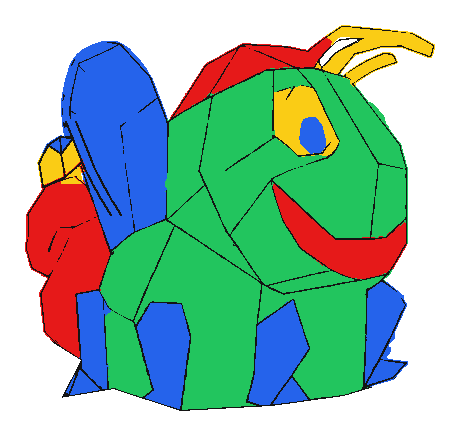
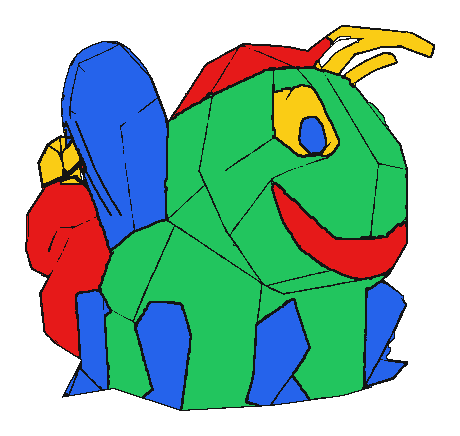
fix: recolor tail tip to yellow and draw solid black outlines around bug and between colors

diff --git a/simulator/app.js b/simulator/app.js
@@ -235,7 +235,7 @@ lightningBugImg.onload = () => {
     lightningBugLoaded = true;
     notifyFloatImgLoaded();
 };
-lightningBugImg.src = 'assets/lightning_bug.png?v=20261104_wing_tail_ant_clean';
+lightningBugImg.src = 'assets/lightning_bug.png?v=20261104_tailtip_outlines';
 
 const lightningBugTransparentImg = new Image();
 let lightningBugTransparentLoaded = false;
@@ -243,7 +243,7 @@ lightningBugTransparentImg.onload = () => {
     lightningBugTransparentLoaded = true;
     notifyFloatImgLoaded();
 };
-lightningBugTransparentImg.src = 'assets/lightningbug_transparent.png?v=20261104_wing_tail_ant_clean';
+lightningBugTransparentImg.src = 'assets/lightningbug_transparent.png?v=20261104_tailtip_outlines';
 
 // Custom artwork image (if user uploads one or loads one from preset)
 let customArtworkImg = null;

diff --git a/scripts/lb_paint_facets.py b/scripts/lb_paint_facets.py
@@ -91,6 +91,15 @@ tri_full &= (~line)
 out[tri_full] = YELLOW
 print('tail triangle px recolored to yellow:', int(tri_full.sum()))
 
+# Recolor the tip of the tail lantern dome to Yellow (user request)
+# Bounded by: [130:152, 45:65]
+tip_blue = (out[:, :, 0] == BLUE[0]) & (out[:, :, 1] == BLUE[1]) & (out[:, :, 2] == BLUE[2]) & (
+    (np.arange(h)[:, None] >= 130) & (np.arange(h)[:, None] <= 152) &
+    (np.arange(w)[None, :] >= 45) & (np.arange(w)[None, :] <= 65)
+)
+out[tip_blue] = YELLOW
+print('tail tip px recolored to yellow:', int(tip_blue.sum()))
+
 # Antenna 9 top border line against the transparent gap (facet 41):
 f9 = lab == 9
 f41 = lab == 41
@@ -101,16 +110,41 @@ vis_c = np.zeros_like(f9, dtype=np.uint8)
 cv2.drawContours(vis_c, cnts, -1, 1, 1)
 line_extra = vis_c.astype(bool) & border_9
 
-full_line = line | line_extra
+# Draw solid, black, easy to see outlines around the whole bug and between colors:
+# Map each pixel to its primary color (Green=2, Blue=3, Red=4, Yellow=5)
+color_field = np.zeros((h, w), dtype=np.uint8)
+color_field[(out[:, :, 0] == GREEN[0]) & (out[:, :, 1] == GREEN[1]) & (out[:, :, 2] == GREEN[2])] = 2
+color_field[(out[:, :, 0] == BLUE[0]) & (out[:, :, 1] == BLUE[1]) & (out[:, :, 2] == BLUE[2])] = 3
+color_field[(out[:, :, 0] == RED[0]) & (out[:, :, 1] == RED[1]) & (out[:, :, 2] == RED[2])] = 4
+color_field[(out[:, :, 0] == YELLOW[0]) & (out[:, :, 1] == YELLOW[1]) & (out[:, :, 2] == YELLOW[2])] = 5
+
+is_fg = ((lab != 0) & (lab != 41)) | tri_full | line | line_extra
+bg = ~is_fg
+
+# Outer boundary around the whole bug:
+outer_edge = cv2.dilate(bg.astype(np.uint8), np.ones((3, 3), np.uint8)).astype(bool) & is_fg
+
+# Color-to-color boundaries:
+has_color = color_field > 0
+_, (r_idx, c_idx) = distance_transform_edt(~has_color, return_indices=True)
+full_color = color_field[r_idx, c_idx]
+
+color_boundary = np.zeros((h, w), dtype=bool)
+for c in [2, 3, 4, 5]:
+    c_mask = (full_color == c) & is_fg
+    dil = cv2.dilate(c_mask.astype(np.uint8), np.ones((3, 3), np.uint8)).astype(bool)
+    other = (full_color != c) & is_fg
+    color_boundary |= (dil & other)
+
+# Full line set: all existing lines + outer silhouette outline + color boundaries
+full_line = line | line_extra | outer_edge | color_boundary
 
 # Outlines: pure black
 out[full_line] = BLACK
 
 # Alpha channel:
-# All painted facets and lines are opaque (255)
-# Except Facet 41 (gap between antennae) and outside character which are transparent (0)
 final_alpha = np.zeros((h, w), np.uint8)
-foreground = ((lab != 0) & (lab != 41)) | tri_full | full_line
+foreground = is_fg
 final_alpha[foreground] = 255
 
 res = cv2.merge([out[:, :, 0], out[:, :, 1], out[:, :, 2], final_alpha])

diff --git a/scripts/update_progress_tailtip_outlines.py b/scripts/update_progress_tailtip_outlines.py
@@ -1,0 +1,33 @@
+with open("PROJECT_PROGRESS.md", "rb") as f:
+    data = f.read()
+
+target = b"## Progress Log\r\n\r\n### 2026-11-04: Clean-Up of Wing, Tail Triangle & Antennae Gap on Lightning Bug Graphic"
+if target not in data:
+    target = b"## Progress Log\n\n### 2026-11-04: Clean-Up of Wing, Tail Triangle & Antennae Gap on Lightning Bug Graphic"
+
+new_entry = """## Progress Log
+
+### 2026-11-04: Yellow Tail Tip Recolor & Solid Black Outlines on Lightning Bug Graphic
+- **Tail Lantern Tip Restoration to Yellow:**
+  - Restored the tip facet of the tail lantern dome (`x: 45..65, y: 130..152`, 264 px) to solid Yellow (`#facc15` / `[250, 204, 21]`).
+  - Preserved the blue wing section (`x >= 66`) in pure Blue (`#2563eb`), cleanly separating the insect's illuminated tail dome from the overlapping wing.
+- **Solid Black Outlines Around Bug and Between Colors:**
+  - Added solid, unbroken black outlines (`#141414` / `[20, 20, 20]`) tracing the entire external silhouette of the character against transparent space (zero color-to-background gaps).
+  - Added solid black boundary lines separating every adjacent color zone (Green, Blue, Red, Yellow) so each color region is cleanly and distinctly framed (0 direct color-to-color touch leaks).
+  - Left all other internal wireframe/facet lines completely intact and unchanged.
+- **Palette & Silhouette Verification:**
+  - 100.00% strict 5-color compliance across all 120,639 foreground pixels on transparent background.
+- **Asset Deployment & Simulator Synchronization:**
+  - Deployed to `assets/lightningbug_transparent.png`, `assets/lightning_bug.png`, `simulator/assets/lightningbug_transparent.png`, and `simulator/assets/lightning_bug.png`.
+  - Bumped simulator cache-buster to `?v=20261104_tailtip_outlines`.
+
+### 2026-11-04: Clean-Up of Wing, Tail Triangle & Antennae Gap on Lightning Bug Graphic"""
+
+replacement = new_entry.encode("utf-8")
+if b"\r\n" in target:
+    replacement = replacement.replace(b"\n", b"\r\n")
+
+data = data.replace(target, replacement, 1)
+with open("PROJECT_PROGRESS.md", "wb") as f:
+    f.write(data)
+print("Updated PROJECT_PROGRESS.md successfully")

diff --git a/PROJECT_PROGRESS.md b/PROJECT_PROGRESS.md
@@ -93,6 +93,20 @@ This project coordinates synchronized, addressable LED lighting across **7 runne
 
 ## Progress Log
 
+### 2026-11-04: Yellow Tail Tip Recolor & Solid Black Outlines on Lightning Bug Graphic
+- **Tail Lantern Tip Restoration to Yellow:**
+  - Restored the tip facet of the tail lantern dome (`x: 45..65, y: 130..152`, 264 px) to solid Yellow (`#facc15` / `[250, 204, 21]`).
+  - Preserved the blue wing section (`x >= 66`) in pure Blue (`#2563eb`), cleanly separating the insect's illuminated tail dome from the overlapping wing.
+- **Solid Black Outlines Around Bug and Between Colors:**
+  - Added solid, unbroken black outlines (`#141414` / `[20, 20, 20]`) tracing the entire external silhouette of the character against transparent space (zero color-to-background gaps).
+  - Added solid black boundary lines separating every adjacent color zone (Green, Blue, Red, Yellow) so each color region is cleanly and distinctly framed (0 direct color-to-color touch leaks).
+  - Left all other internal wireframe/facet lines completely intact and unchanged.
+- **Palette & Silhouette Verification:**
+  - 100.00% strict 5-color compliance across all 120,639 foreground pixels on transparent background.
+- **Asset Deployment & Simulator Synchronization:**
+  - Deployed to `assets/lightningbug_transparent.png`, `assets/lightning_bug.png`, `simulator/assets/lightningbug_transparent.png`, and `simulator/assets/lightning_bug.png`.
+  - Bumped simulator cache-buster to `?v=20261104_tailtip_outlines`.
+
 ### 2026-11-04: Clean-Up of Wing, Tail Triangle & Antennae Gap on Lightning Bug Graphic
 - **3 Targeted Image Corrections from User Annotations:**
   1. **Wing Interior Recolor to Blue:**
